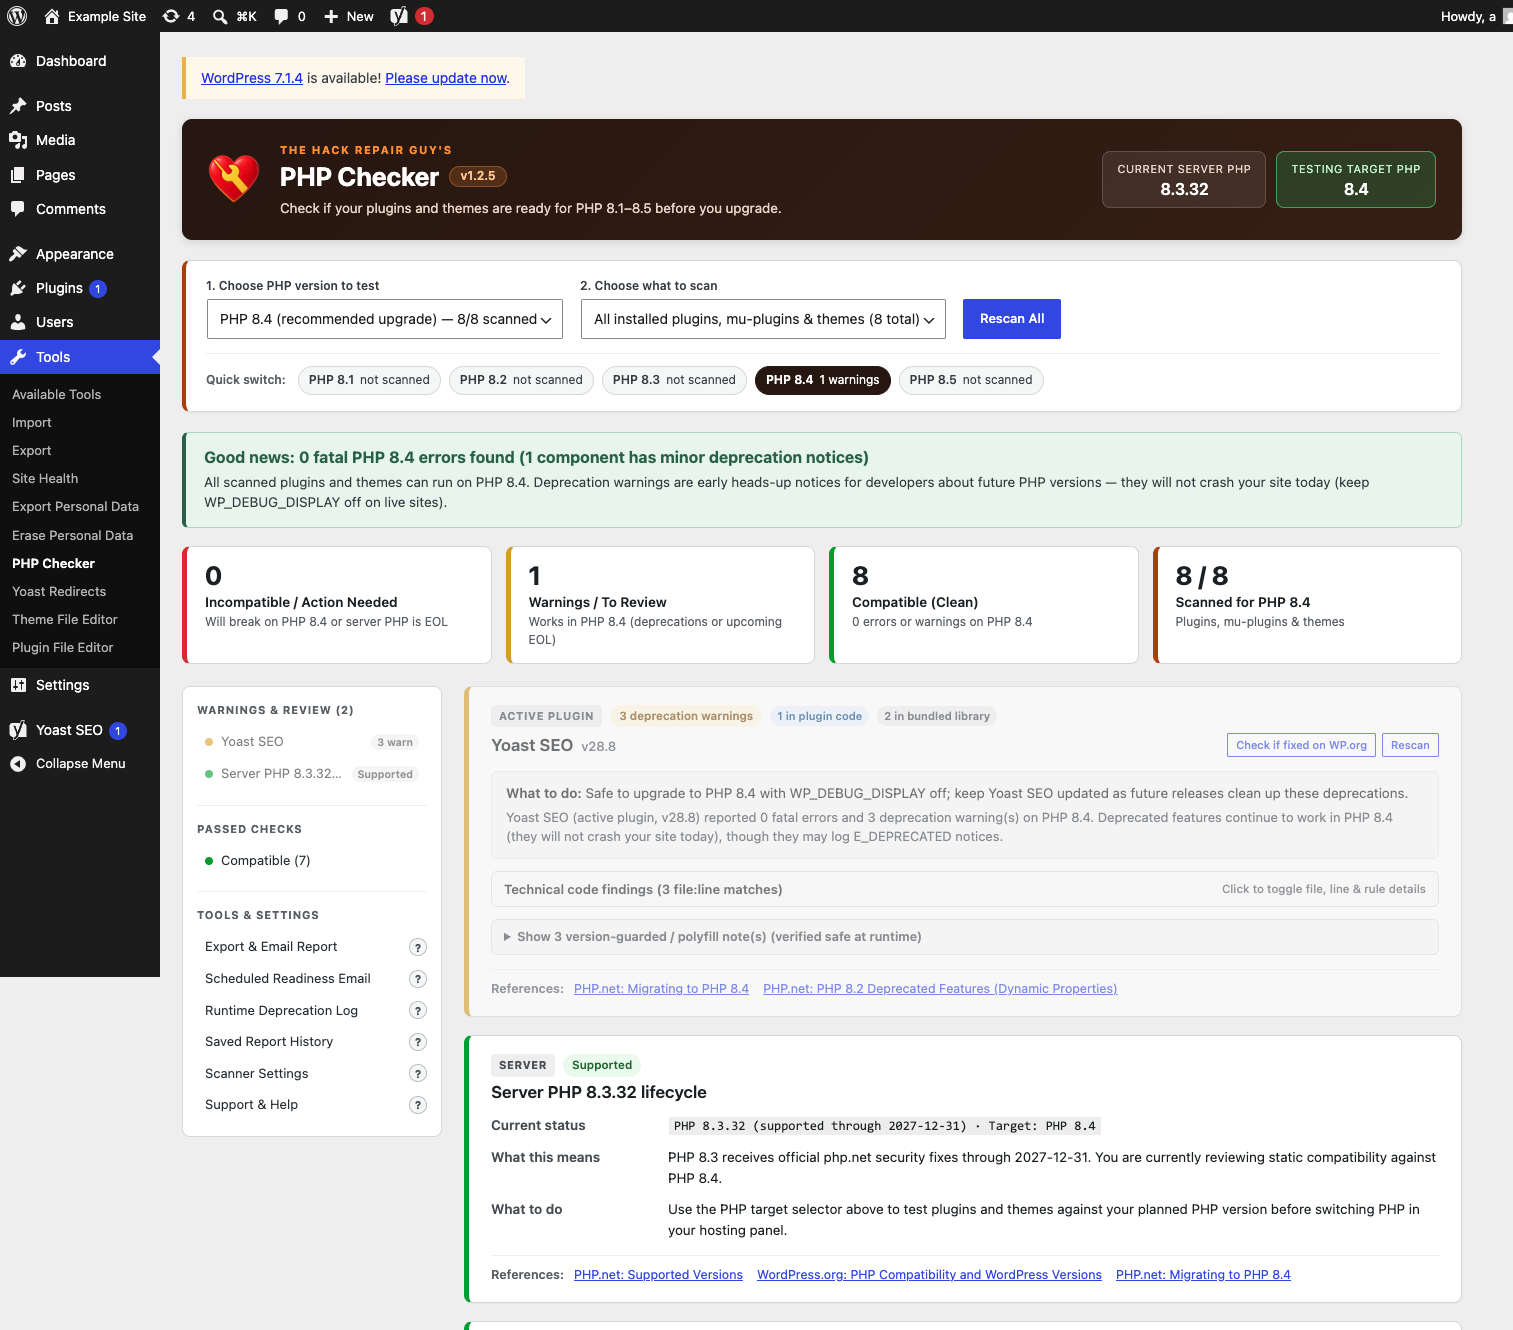
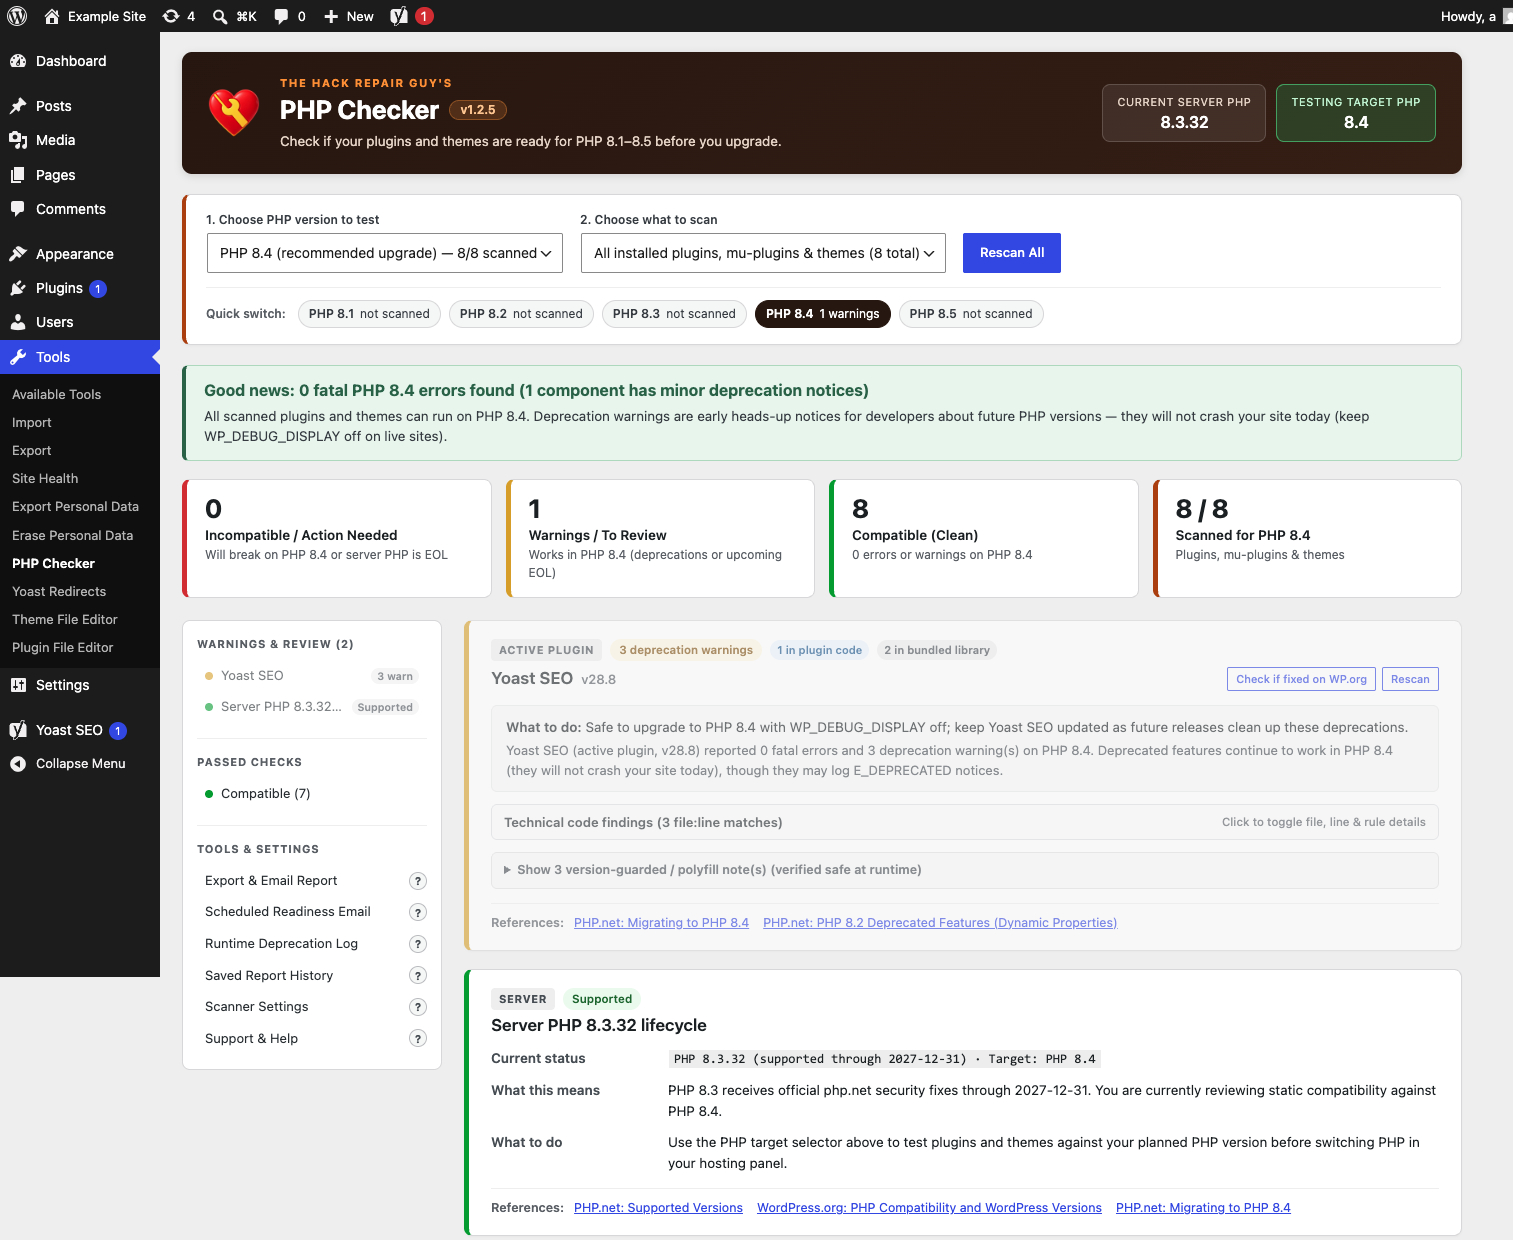
Retake store screenshots; PHP 7.4 test compatibility; submission checklist

diff --git a/tests/run.php b/tests/run.php
@@ -547,6 +547,7 @@ THRG_PC_Scanner::set_state( $seed_job );
 assert_same( array(), THRG_PC_Scanner::get_state(), 'Abandoned scan expires so another administrator can start later' );
 
 $claim = new ReflectionMethod( THRG_PC_Scanner::class, 'claim_state' );
+$claim->setAccessible( true ); // Needed before PHP 8.1.
 $first_job = $seed_job;
 $first_job['updated_at'] = time();
 $first_job['job_id'] = str_repeat( 'c', 32 );
@@ -560,6 +561,7 @@ assert_same( $first_job, THRG_PC_Scanner::get_state(), 'Conditional delete prese
 assert_true( THRG_PC_Scanner::clear_state( $first_job ), 'Matching conditional cleanup removes the job' );
 
 $lock_method = new ReflectionMethod( THRG_PC_Scanner::class, 'claim_step_lock' );
+$lock_method->setAccessible( true ); // Needed before PHP 8.1.
 $lock = $lock_method->invoke( null, $first_job['job_id'] );
 $parallel_step_rejected = false;
 try {
@@ -571,6 +573,7 @@ assert_true( $parallel_step_rejected, 'Overlapping step cannot claim a held lock
 delete_option( THRG_PC_Scanner::STEP_LOCK_OPTION );
 
 $replace = new ReflectionMethod( THRG_PC_Scanner::class, 'replace_state' );
+$replace->setAccessible( true ); // Needed before PHP 8.1.
 THRG_PC_Scanner::set_state( $first_job );
 assert_true( ! $replace->invoke( null, $second_job, $first_job ), 'Progress update rejects a different current state' );
 assert_same( $first_job, THRG_PC_Scanner::get_state(), 'Rejected progress update leaves current job intact' );
@@ -639,6 +642,7 @@ assert_same( 1, get_transient( 'thrg_pc_mail_11' ), 'Email cooldown is created' 
 assert_same( array( 11 => 'thrg_pc_mail_11' ), get_option( 'thrg_pc_mail_cooldowns' ), 'Cooldown key is tracked' );
 
 $wporg_cache = new ReflectionMethod( 'THRG_PC_Prescan', 'wporg_cache' );
+$wporg_cache->setAccessible( true ); // Needed before PHP 8.1.
 $wporg_cache->setAccessible( true );
 $wporg_cache->invoke( null, 'thrg_pc_wporg_abcdef012345', array( 'status' => 'ok' ) );
 $wporg_cache->invoke( null, 'thrg_pc_wporg_abcdef012345', array( 'status' => 'ok' ) );
@@ -646,6 +650,7 @@ assert_same( array( 'status' => 'ok' ), get_transient( 'thrg_pc_wporg_abcdef0123
 assert_same( array( 'thrg_pc_wporg_abcdef012345' ), get_option( 'thrg_pc_wporg_keys' ), 'WordPress.org cache key is tracked once' );
 
 $wporg_scan = new ReflectionMethod( 'THRG_PC_Prescan', 'scan_wporg_package' );
+$wporg_scan->setAccessible( true ); // Needed before PHP 8.1.
 $wporg_scan->setAccessible( true );
 assert_same( null, $wporg_scan->invoke( null, 'demo', '1.0.0', 'https://example.com/demo.zip', '8.3', microtime( true ) + 5 ), 'WordPress.org fix check refuses package hosts other than downloads.wordpress.org' );
 assert_same( null, $wporg_scan->invoke( null, 'demo', '1.0.0', 'http://downloads.wordpress.org/plugin/demo.zip', '8.3', microtime( true ) + 5 ), 'WordPress.org fix check refuses plain http package URLs' );

diff --git a/PROJECT.md b/PROJECT.md
@@ -68,7 +68,12 @@ The `--wporg` build follows the Stickies WordPress.org edition (`thrg-stickies`,
 - [x] Working tree committed and bumped to 1.2.5 (`index.php`, both readmes, `releases/v1.2.5.md`), November 12, 2026. Not pushed or released.
 - [x] Screenshots taken on a clean sandbox and added to `.wordpress-org/` with a `== Screenshots ==` section.
 - [x] Plugin Check 2.2.0 on WordPress 7.0.1 against the `--wporg` ZIP: 0 errors, 7 warnings (direct database calls in `class-thrg-pc-scanner.php` and one `$_POST['users']` sanitization notice in `class-thrg-pc-schedule.php`, all reviewed). Nov 12, 2026.
+- [x] Plugin Check rerun after the contact-wording changes: 0 errors, 7 warnings. The review link drops `?filter=5` (Plugin Check error `five_star_reviews_detected`) and uses `/reviews/#new-post`.
+- [x] Screenshots 1 and 2 retaken after the wording changes (no Plugin Detective box, no $79 line, no Plugin Check in the menu). Nov 12, 2026.
+- [x] PHP 7.4.33: every plugin file lints; `tests/run.php` passes 113 assertions (the 10 update-ZIP assertions skip because the stock `php:7.4-cli` image has no ZipArchive). Tests now call `setAccessible( true )` on reflected private methods, which PHP before 8.1 requires.
+- [x] WordPress.org ZIP audited: only `thrg-php-checker.php`, `readme.txt`, `uninstall.php`, `LICENSE`, `includes/`, `assets/`, `vendor/thrg-scan-engine/`; no updater, GitHub, project docs, tests or scripts.
 - [ ] Confirm the `hackrepair` and `tvcnet` WordPress.org accounts and the slug.
+- [ ] Submit `dist/thrg-php-checker.1.2.5.wporg.zip` at https://wordpress.org/plugins/developers/add/.
 - [x] Footer: the $79 upgrade-service line is gone; the footer is now one help request linking to hackguard.com (the scheduled email footer links there too). The Plugin Detective recommendation and its companion card are removed from every build for now; add a new link later if wanted.
 
 ## Verification & Quality Gates
